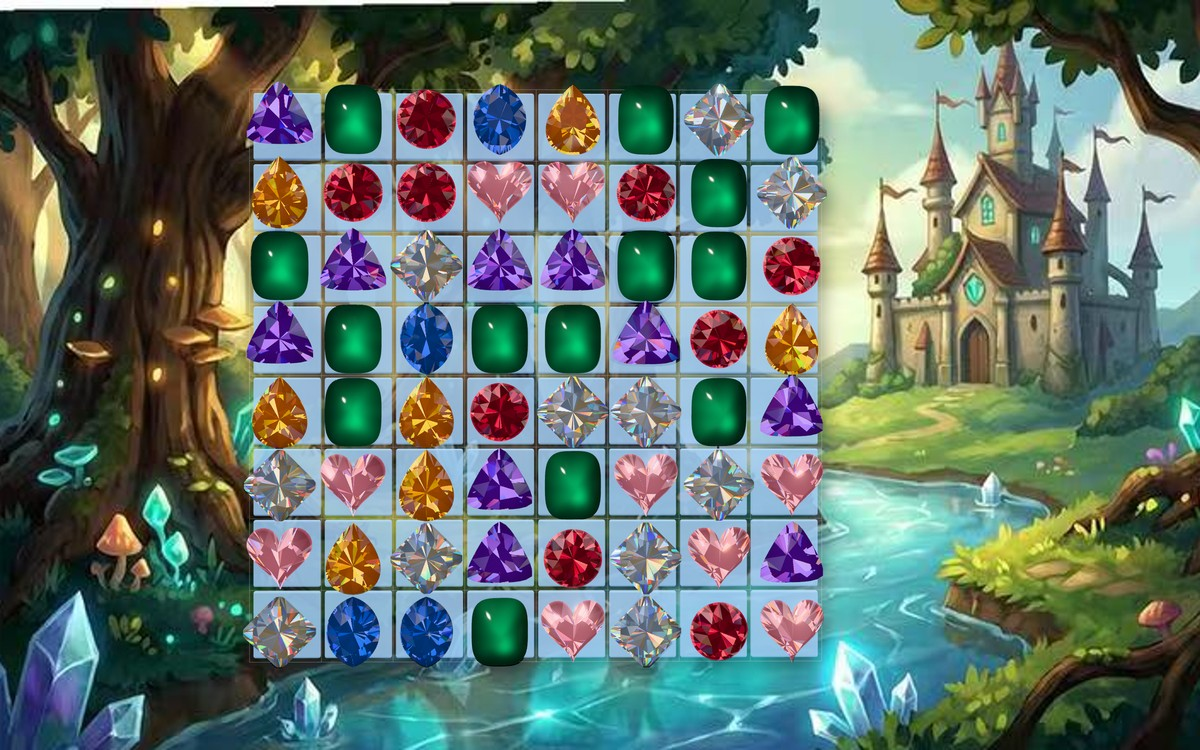
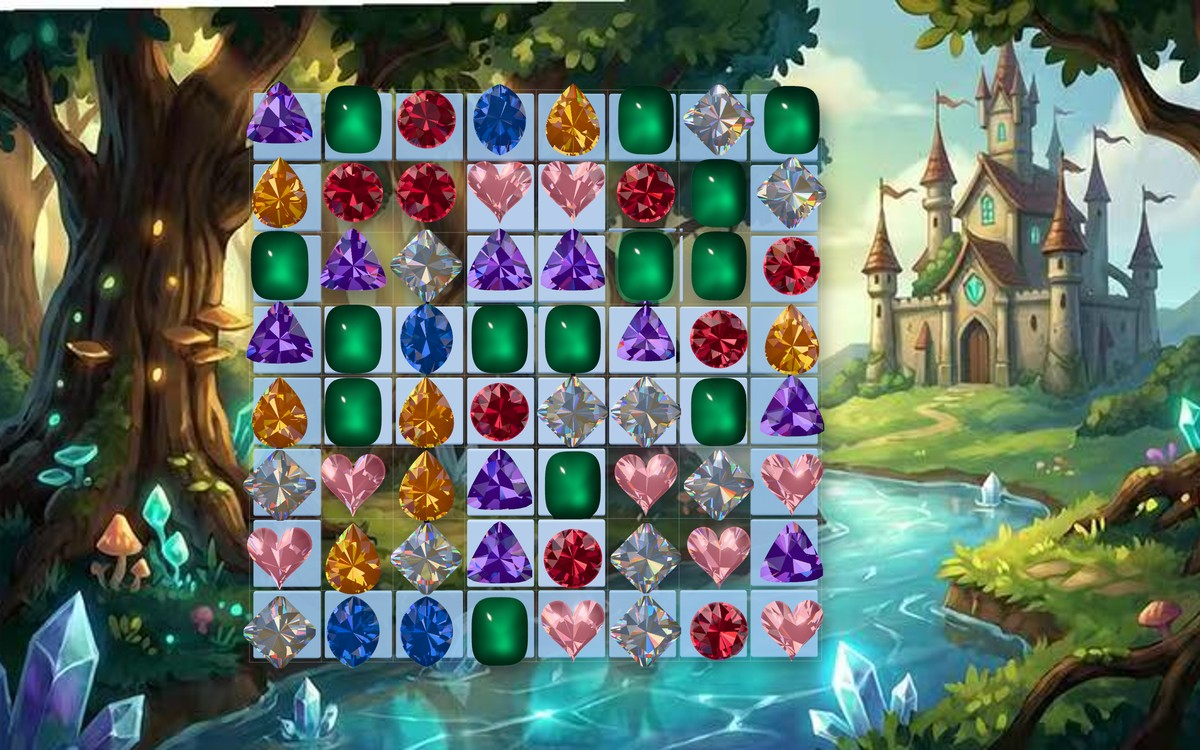
The cover's ice round the edge with a cross (1.4.7) (#37)
* The cover's ice in the game's diamond pattern, not under every stone (1.4.7)

Claude-Session: https://claude.ai/code/session_01LS9mE2Y1B7GypKxhDAFMmn

* The cover's ice round the edge with a cross through the middle

Claude-Session: https://claude.ai/code/session_01LS9mE2Y1B7GypKxhDAFMmn

---------

Changed region(s): [[0.185, 0.092, 0.7092, 0.8893], [0.555, 0.1227, 0.6475, 0.2147]]

diff --git a/cover-src/README.md b/cover-src/README.md
@@ -1,7 +1,21 @@
 # The cover picture
 
-`public/cover.jpg` (1200×750, no text) is the board, with the game's own ice
-under every stone, set on a painted backdrop. `cover.py` puts it together:
+`public/cover.jpg` (1200×750, no text) is the board as it looks in a level
+with ice, set on a painted backdrop: the game's own ice laid round the
+board's edge with a cross through the middle, like a window, and the board's
+dark pane under the four 2×2 squares left clear. The pattern, a row a line
+(1 is thin ice, 2 thick, . none):
+
+```
+11111111
+1..22..1
+1..22..1
+12222221
+12222221
+1..22..1
+1..22..1
+11111111
+``` `cover.py` puts it together:
 
 ```
 python3 cover.py backdrop.jpg board-on-black.png board-on-white.png ../public/cover.jpg
@@ -12,10 +26,10 @@ python3 cover.py backdrop.jpg board-on-black.png board-on-white.png ../public/co
   bottom edges are trimmed, and it is scaled to fill the cover, keeping the
   left of the picture so the castle on the right stays clear of the board.
 - **The board.** The two board shots are not kept here. To make them, run
-  the game with ice (one layer) under all 64 cells, the scenery and the
-  board's dark pane left out, and all seven stones on the board. Shoot it
-  twice at 2400×1500 (a 1200×750 window at twice the pixels), once over
-  black and once over white. The difference between the two shots gives
-  each pixel's transparency, so the ice stays see-through. The ice is what
-  makes the stones stand out from the trees.
-- A soft shadow under the ice lifts the board off the painting.
+  the game with that ice pattern on the board, the scenery left out, and
+  all seven stones on the board. Wait for no stone to be pulsing as a hint,
+  which shows as a dark outline. Shoot it twice at 2400×1500 (a
+  1200×750 window at twice the pixels), once over black and once over
+  white. The difference between the two shots gives each pixel's
+  transparency, so the ice and the dark pane stay see-through.
+- A soft shadow under the board lifts it off the painting.
